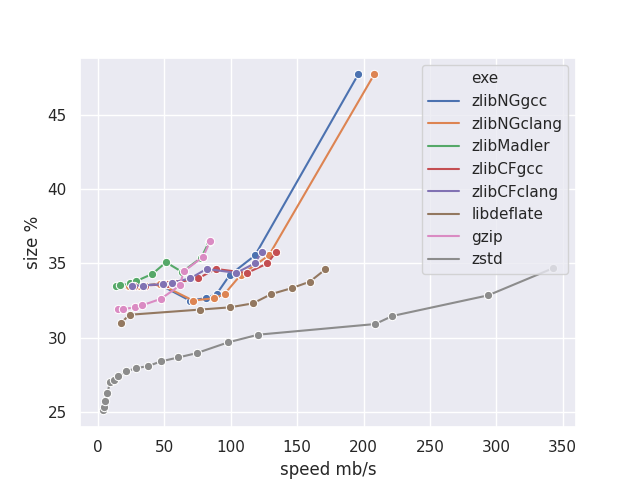
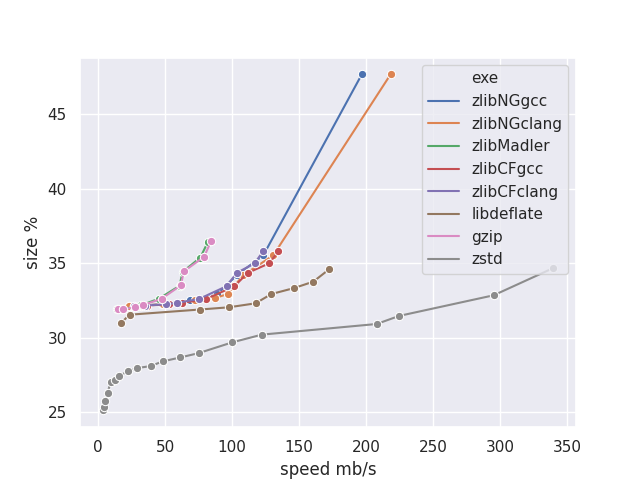
Do not use -f for minigzip (https://github.com/zlib-ng/zlib-ng/pull/677)

diff --git a/b_speed_test.py b/b_speed_test.py
@@ -377,13 +377,18 @@ if __name__ == '__main__':
         print('Run a_compile.py first: Unable to find "' + exeDir +'"')
     else:
         for exe in sorted(os.listdir(exeDir)):
+            #for libdeflate we must -f to "force" overwrites
+            # for minigzip variants -f creates Z_FILTERED
+            force = ''
+            if exe.startswith('libdeflate'):
+                force = ' -f'
             exe = os.path.join(exeDir, exe)
             if os.path.isfile(exe):
                 st = os.stat(exe)
                 mode = st.st_mode
                 if mode & executable:
                     exe = os.path.abspath(exe)
-                    exes.append({'exe': exe, 'uncompress': ' -f -k -d ', 'compress':  ' -f -k -', 'max_level': 9, 'ext': '.gz' })
+                    exes.append({'exe': exe, 'uncompress': force+' -k -d ', 'compress':  force+' -k -', 'max_level': 9, 'ext': '.gz' })
     exts = []
     for  i in range(len(exes)) :
         ext = exes[i]['ext']

diff --git a/README.MD b/README.MD
@@ -21,88 +21,88 @@ The script `b_speed_test.py` allows us to compare speed of compression and decom
 
 ```
 CompressMethod	Level	Min	Mean	Max	mb/s	%
-zstd	1	618	624	632	343	34.69
-zstd	2	721	729	739	294	32.86
-zstd	3	956	962	972	222	31.47
-zstd	4	1015	1032	1044	209	30.93
-zstd	5	1756	1783	1806	121	30.22
-zstd	6	2164	2176	2187	98	29.70
-zstd	7	2857	2872	2900	74	28.97
-zstd	8	3505	3531	3564	60	28.69
-zstd	9	4495	4527	4571	47	28.42
-zstd	10	5613	5672	5756	38	28.11
-zstd	11	7328	7392	7460	29	27.97
-zstd	12	9949	10156	10341	21	27.75
-zstd	13	13986	14156	14289	15	27.43
-zstd	14	17630	18024	18434	12	27.19
-zstd	15	23370	23495	23818	9	27.01
-zstd	16	30708	30861	31009	7	26.29
-zstd	17	38423	38641	38906	6	25.78
-zstd	18	47952	48761	49395	4	25.34
-zstd	19	62927	63382	63904	3	25.13
-gzip	1	2509	2522	2548	84	36.50
-gzip	2	2681	2690	2707	79	35.44
-gzip	3	3288	3328	3344	64	34.46
-gzip	4	3436	3462	3480	62	33.52
-gzip	5	4478	4508	4546	47	32.62
-gzip	6	6353	6400	6491	33	32.19
-gzip	7	7588	7652	7710	28	32.05
-gzip	8	11244	11285	11352	19	31.93
-gzip	9	14047	14095	14173	15	31.91
-libdeflate	1	1238	1248	1267	171	34.59
-libdeflate	2	1329	1337	1343	159	33.77
-libdeflate	3	1452	1467	1484	146	33.34
-libdeflate	4	1625	1634	1649	130	32.94
-libdeflate	5	1817	1829	1846	117	32.32
-libdeflate	6	2138	2164	2197	99	32.05
-libdeflate	7	2764	2784	2823	77	31.90
-libdeflate	8	8888	8937	8985	24	31.55
-libdeflate	9	12344	12447	12534	17	31.01
-zlibCFclang	1	1716	1733	1761	124	35.80
-zlibCFclang	2	1797	1818	1840	118	35.00
-zlibCFclang	3	2035	2043	2050	104	34.37
-zlibCFclang	4	2594	2617	2638	82	34.63
-zlibCFclang	5	3047	3062	3091	70	34.00
-zlibCFclang	6	3790	3815	3841	56	33.72
-zlibCFclang	7	4351	4375	4402	49	33.61
-zlibCFclang	8	6210	6302	6367	34	33.52
-zlibCFclang	9	8338	8392	8424	25	33.51
-zlibCFgcc	1	1577	1595	1614	134	35.80
-zlibCFgcc	2	1662	1671	1692	128	35.00
-zlibCFgcc	3	1889	1908	1924	112	34.37
-zlibCFgcc	4	2393	2420	2435	89	34.63
-zlibCFgcc	5	2806	2836	2867	76	34.00
-zlibCFgcc	6	3591	3623	3646	59	33.72
-zlibCFgcc	7	4105	4163	4247	52	33.61
-zlibCFgcc	8	5937	5992	6027	36	33.52
-zlibCFgcc	9	7873	7906	7924	27	33.51
-zlibMadler	1	2535	2560	2595	84	36.45
-zlibMadler	2	2726	2762	2792	78	35.39
-zlibMadler	3	3349	3373	3391	63	34.43
-zlibMadler	4	4139	4185	4216	51	35.08
-zlibMadler	5	5179	5225	5259	41	34.30
-zlibMadler	6	7383	7428	7503	29	33.81
-zlibMadler	7	8725	8847	8900	24	33.66
-zlibMadler	8	12558	12712	12883	17	33.53
-zlibMadler	9	15814	16027	16249	13	33.51
-zlibNGclang	1	1019	1032	1041	208	47.70
-zlibNGclang	2	1647	1665	1681	129	35.54
-zlibNGclang	3	1975	1991	2004	107	34.22
-zlibNGclang	4	2225	2243	2276	95	32.95
-zlibNGclang	5	2417	2434	2457	88	32.67
-zlibNGclang	6	2963	2980	2993	72	32.51
-zlibNGclang	7	4534	4551	4567	47	33.61
-zlibNGclang	8	6695	6760	6834	32	33.52
-zlibNGclang	9	9146	9224	9355	23	33.51
-zlibNGgcc	1	1082	1093	1103	196	47.70
-zlibNGgcc	2	1793	1805	1811	118	35.54
-zlibNGgcc	3	2137	2143	2156	99	34.22
-zlibNGgcc	4	2373	2399	2429	89	32.95
-zlibNGgcc	5	2611	2633	2664	81	32.67
-zlibNGgcc	6	3068	3113	3159	69	32.51
-zlibNGgcc	7	4631	4669	4740	46	33.61
-zlibNGgcc	8	6858	6898	6957	31	33.52
-zlibNGgcc	9	9278	9369	9463	23	33.51
+zstd	1	624	628	633	340	34.69
+zstd	2	719	729	735	295	32.86
+zstd	3	944	951	957	225	31.47
+zstd	4	1020	1028	1033	208	30.93
+zstd	5	1735	1750	1759	122	30.22
+zstd	6	2116	2127	2146	100	29.70
+zstd	7	2824	2841	2872	75	28.97
+zstd	8	3448	3501	3532	61	28.69
+zstd	9	4397	4442	4481	48	28.42
+zstd	10	5387	5446	5498	39	28.11
+zstd	11	7233	7250	7267	29	27.97
+zstd	12	9495	9751	9906	22	27.75
+zstd	13	13751	13842	13930	15	27.43
+zstd	14	17115	17228	17329	12	27.19
+zstd	15	22535	22687	22926	9	27.01
+zstd	16	29581	29904	30080	7	26.29
+zstd	17	37803	38170	38403	6	25.78
+zstd	18	47500	47928	48446	4	25.34
+zstd	19	61459	61742	62495	3	25.13
+gzip	1	2511	2539	2569	84	36.50
+gzip	2	2679	2711	2736	79	35.44
+gzip	3	3310	3332	3347	64	34.46
+gzip	4	3431	3469	3506	62	33.52
+gzip	5	4465	4508	4537	47	32.62
+gzip	6	6365	6420	6476	33	32.19
+gzip	7	7610	7704	7773	28	32.05
+gzip	8	11146	11209	11344	19	31.93
+gzip	9	13990	14169	14345	15	31.91
+libdeflate	1	1231	1242	1249	172	34.59
+libdeflate	2	1320	1331	1335	161	33.77
+libdeflate	3	1449	1468	1481	146	33.34
+libdeflate	4	1640	1657	1675	129	32.94
+libdeflate	5	1804	1818	1828	117	32.32
+libdeflate	6	2174	2207	2231	97	32.05
+libdeflate	7	2799	2834	2856	76	31.90
+libdeflate	8	8955	8997	9048	24	31.55
+libdeflate	9	12273	12390	12463	17	31.01
+zlibCFclang	1	1723	1735	1763	123	35.80
+zlibCFclang	2	1814	1819	1826	117	35.00
+zlibCFclang	3	2047	2064	2074	104	34.37
+zlibCFclang	4	2211	2250	2299	96	33.46
+zlibCFclang	5	2815	2857	2900	75	32.61
+zlibCFclang	6	3595	3626	3651	59	32.35
+zlibCFclang	7	4155	4185	4216	51	32.25
+zlibCFclang	8	6045	6101	6147	35	32.17
+zlibCFclang	9	7987	8085	8168	27	32.15
+zlibCFgcc	1	1576	1597	1609	134	35.80
+zlibCFgcc	2	1661	1676	1692	128	35.00
+zlibCFgcc	3	1896	1907	1918	112	34.37
+zlibCFgcc	4	2084	2132	2175	102	33.46
+zlibCFgcc	5	2626	2654	2669	81	32.61
+zlibCFgcc	6	3366	3431	3467	63	32.35
+zlibCFgcc	7	3997	4020	4039	53	32.25
+zlibCFgcc	8	5847	5881	5922	36	32.17
+zlibCFgcc	9	7842	7919	7964	27	32.15
+zlibMadler	1	2584	2607	2641	82	36.45
+zlibMadler	2	2779	2794	2816	76	35.39
+zlibMadler	3	3359	3389	3419	63	34.43
+zlibMadler	4	3485	3518	3560	61	33.50
+zlibMadler	5	4665	4702	4717	45	32.63
+zlibMadler	6	6603	6680	6724	32	32.19
+zlibMadler	7	7953	8053	8138	27	32.05
+zlibMadler	8	11823	11893	11991	18	31.94
+zlibMadler	9	14943	15091	15301	14	31.92
+zlibNGclang	1	972	989	998	218	47.69
+zlibNGclang	2	1622	1627	1632	131	35.54
+zlibNGclang	3	1954	1961	1968	108	34.22
+zlibNGclang	4	2191	2232	2262	97	32.95
+zlibNGclang	5	2425	2446	2476	87	32.67
+zlibNGclang	6	2919	2948	2970	73	32.51
+zlibNGclang	7	4365	4396	4434	49	32.25
+zlibNGclang	8	6614	6698	6762	32	32.17
+zlibNGclang	9	9017	9132	9214	24	32.15
+zlibNGgcc	1	1078	1099	1112	197	47.69
+zlibNGgcc	2	1720	1731	1741	123	35.54
+zlibNGgcc	3	2043	2061	2067	104	34.22
+zlibNGgcc	4	2385	2410	2429	89	32.95
+zlibNGgcc	5	2610	2637	2673	81	32.67
+zlibNGgcc	6	3101	3117	3150	68	32.51
+zlibNGgcc	7	4409	4452	4555	48	32.25
+zlibNGgcc	8	6595	6667	6742	32	32.17
+zlibNGgcc	9	9139	9239	9365	23	32.15
 
 DecompressMethod	Min	Mean	Max	mb/s
 zstd	7643	7889	7994	526.86
@@ -128,6 +128,7 @@ Be warned that this script will use a huge amount of disk space. The Silesia cop
 
  - [zlib-bench](https://github.com/jsnell/zlib-bench) is a perl script.
  - [pigz-bench-python](https://github.com/neurolabusc/pigz-bench-python) tests the parallel compressor pigz.
+ - [deflatebench](https://github.com/zlib-ng/deflatebench) is a Python script for testing gz compression. It attempts to control low level CPU features (like turbo modes that can boost performance for short bursts) that can lead to variability in benchmark timing.
  
  
 
